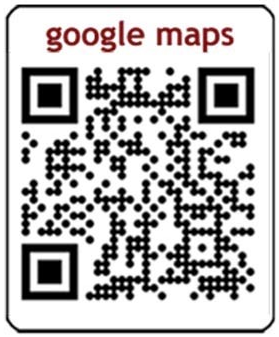
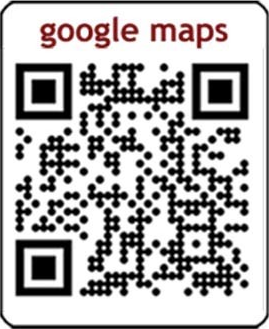
Eliminate excess white margins and exact crop QR code frames

diff --git a/src/components/RatingsTrustSection.tsx b/src/components/RatingsTrustSection.tsx
@@ -125,7 +125,7 @@ export const RatingsTrustSection: React.FC<SocialMediaQRSectionProps> = ({
   return (
     <section
       id="social-media"
-      className="relative bg-white text-[#0E1117] py-8 sm:py-12 min-h-[calc(100vh-60px)] flex flex-col justify-center overflow-hidden border-t border-black/[0.05] selection:bg-[#F15A24] selection:text-white"
+      className="relative bg-white text-[#0E1117] py-6 sm:py-10 md:py-12 overflow-hidden border-t border-black/[0.05] selection:bg-[#F15A24] selection:text-white"
     >
       {/* 1. White Ambient Studio Geometry & Grid */}
       <div className="absolute inset-0 pointer-events-none z-0 overflow-hidden select-none">
@@ -168,10 +168,10 @@ export const RatingsTrustSection: React.FC<SocialMediaQRSectionProps> = ({
         </svg>
 
         {/* Technical Corner Markers */}
-        <div className="absolute top-6 left-6 sm:left-12 font-mono text-[0.62rem] tracking-widest text-[#9AA5B5]">
+        <div className="absolute top-4 left-4 sm:left-12 font-mono text-[0.60rem] tracking-widest text-[#9AA5B5]">
           + <span className="text-[#64748B]">SEC.SOCIAL_HUB</span>
         </div>
-        <div className="absolute top-6 right-6 sm:right-12 font-mono text-[0.62rem] tracking-widest text-[#9AA5B5]">
+        <div className="absolute top-4 right-4 sm:right-12 font-mono text-[0.60rem] tracking-widest text-[#9AA5B5]">
           + <span className="text-[#64748B]">4_DIRECT_CHANNELS</span>
         </div>
       </div>
@@ -179,18 +179,18 @@ export const RatingsTrustSection: React.FC<SocialMediaQRSectionProps> = ({
       <div className="relative z-10 max-w-[1320px] mx-auto px-4 sm:px-6 w-full">
         
         {/* 2. Centered Section Header */}
-        <div className="max-w-3xl mx-auto mb-6 sm:mb-8 text-center flex flex-col items-center">
+        <div className="max-w-3xl mx-auto mb-4 sm:mb-6 text-center flex flex-col items-center">
           
           {/* Eyebrow Badge */}
-          <div className="inline-flex items-center gap-2 bg-[#FAFBFD] px-3.5 py-1 rounded-full border border-black/[0.08] shadow-2xs mb-2.5">
+          <div className="inline-flex items-center gap-2 bg-[#FAFBFD] px-3 py-0.5 rounded-full border border-black/[0.08] shadow-2xs mb-1.5">
             <span className="w-2 h-[2px] bg-[#F15A24] rounded-full" />
-            <span className="font-mono text-[0.66rem] font-black tracking-[0.18em] text-[#F15A24] uppercase">
+            <span className="font-mono text-[0.64rem] font-black tracking-[0.16em] text-[#F15A24] uppercase">
               CONNECT WITH US
             </span>
           </div>
 
           {/* Main Headline */}
-          <h2 className="font-heading font-extrabold text-[clamp(1.7rem,3vw,2.5rem)] text-[#0E1117] leading-[1.1] tracking-tight mb-2 select-none">
+          <h2 className="font-heading font-extrabold text-[clamp(1.5rem,2.8vw,2.3rem)] text-[#0E1117] leading-[1.1] tracking-tight mb-1.5 select-none">
             Connect with Us on{' '}
             <span className="text-[#F15A24] relative inline-block">
               Social Media.
@@ -199,13 +199,13 @@ export const RatingsTrustSection: React.FC<SocialMediaQRSectionProps> = ({
           </h2>
 
           {/* Subtitle */}
-          <p className="text-[0.88rem] sm:text-[0.96rem] text-[#4A5364] leading-relaxed max-w-2xl font-normal">
+          <p className="text-[0.82rem] sm:text-[0.92rem] text-[#4A5364] leading-relaxed max-w-2xl font-normal">
             Scan any QR code with your smartphone or tap the links below for instant updates, live tech support, workstation videos &amp; showroom directions.
           </p>
         </div>
 
         {/* 3. 4 Side-By-Side Interactive QR Cards (Touch-Swipeable on Mobile, Grid on Desktop) */}
-        <div className="flex sm:grid sm:grid-cols-2 lg:grid-cols-4 gap-4 sm:gap-5 lg:gap-6 overflow-x-auto sm:overflow-visible pb-3 sm:pb-0 snap-x snap-mandatory no-scrollbar -mx-4 px-4 sm:mx-0 sm:px-0 items-stretch">
+        <div className="flex sm:grid sm:grid-cols-2 lg:grid-cols-4 gap-3.5 sm:gap-5 lg:gap-6 overflow-x-auto sm:overflow-visible pb-2 sm:pb-0 snap-x snap-mandatory no-scrollbar -mx-4 px-4 sm:mx-0 sm:px-0 items-stretch">
           {socialChannels.map((channel) => {
             const Icon = channel.icon;
             const isHovered = hoveredCard === channel.id;
@@ -215,10 +215,10 @@ export const RatingsTrustSection: React.FC<SocialMediaQRSectionProps> = ({
                 key={channel.id}
                 onMouseEnter={() => setHoveredCard(channel.id)}
                 onMouseLeave={() => setHoveredCard(null)}
-                className={`min-w-[270px] sm:min-w-0 flex-shrink-0 sm:flex-shrink snap-center group bg-white rounded-2xl p-4 sm:p-5 border transition-all duration-300 flex flex-col justify-between relative overflow-hidden ${channel.brandBorder} ${
+                className={`w-[82vw] max-w-[285px] sm:w-auto sm:max-w-none flex-shrink-0 sm:flex-shrink snap-center group bg-white rounded-2xl p-3.5 sm:p-4.5 border transition-all duration-300 flex flex-col justify-between relative overflow-hidden ${channel.brandBorder} ${
                   isHovered
-                    ? 'shadow-[0_18px_45px_rgba(15,23,42,0.08)] -translate-y-1.5'
-                    : 'border-black/[0.08] shadow-[0_6px_24px_rgba(15,23,42,0.03)]'
+                    ? 'shadow-[0_18px_45px_rgba(15,23,42,0.08)] -translate-y-1'
+                    : 'border-black/[0.08] shadow-[0_4px_20px_rgba(15,23,42,0.03)]'
                 }`}
               >
                 {/* Top Subtle Brand Gradient Accent Bar */}
@@ -232,19 +232,19 @@ export const RatingsTrustSection: React.FC<SocialMediaQRSectionProps> = ({
 
                 {/* Card Top: Platform Icon, Badge & Title */}
                 <div>
-                  <div className="flex items-center justify-between gap-2 mb-3 pt-1">
+                  <div className="flex items-center justify-between gap-2 mb-2 pt-0.5">
                     {/* Platform Icon & Name */}
                     <div className="flex items-center gap-2">
                       <div
-                        className={`w-8 h-8 rounded-xl flex items-center justify-center transition-transform duration-200 group-hover:scale-110 shadow-2xs ${channel.brandBg}`}
+                        className={`w-7 h-7 sm:w-8 sm:h-8 rounded-xl flex items-center justify-center transition-transform duration-200 group-hover:scale-110 shadow-2xs ${channel.brandBg}`}
                       >
-                        <Icon size={18} className={channel.brandText} />
+                        <Icon size={16} className={channel.brandText} />
                       </div>
                       <div className="text-left">
-                        <h3 className="font-heading font-extrabold text-[1.05rem] text-[#0E1117] leading-tight">
+                        <h3 className="font-heading font-extrabold text-[0.98rem] sm:text-[1.05rem] text-[#0E1117] leading-tight">
                           {channel.name}
                         </h3>
-                        <span className="font-mono text-[0.62rem] text-slate-400 block -mt-0.5 truncate max-w-[120px]">
+                        <span className="font-mono text-[0.60rem] text-slate-400 block -mt-0.5 truncate max-w-[110px]">
                           {channel.handleOrSub}
                         </span>
                       </div>
@@ -252,7 +252,7 @@ export const RatingsTrustSection: React.FC<SocialMediaQRSectionProps> = ({
 
                     {/* Badge */}
                     <span
-                      className="font-mono text-[0.58rem] font-bold tracking-wider px-2 py-0.5 rounded-md uppercase"
+                      className="font-mono text-[0.55rem] font-bold tracking-wider px-2 py-0.5 rounded-md uppercase whitespace-nowrap"
                       style={{
                         backgroundColor: `${channel.accentColor}12`,
                         color: channel.accentColor,
@@ -263,11 +263,11 @@ export const RatingsTrustSection: React.FC<SocialMediaQRSectionProps> = ({
                   </div>
 
                   {/* QR Code Direct Display without excess white space/frames */}
-                  <div className="relative my-3 flex items-center justify-center overflow-hidden group/qr">
+                  <div className="relative my-1.5 flex items-center justify-center overflow-hidden group/qr">
                     {/* Scanner Line Effect on Hover */}
                     {isHovered && (
                       <div
-                        className="absolute left-1/2 -translate-x-1/2 w-full max-w-[200px] h-[2px] z-20 pointer-events-none shadow-[0_0_8px_rgba(241,90,36,0.8)] animate-pulse"
+                        className="absolute left-1/2 -translate-x-1/2 w-full max-w-[195px] h-[2px] z-20 pointer-events-none shadow-[0_0_8px_rgba(241,90,36,0.8)] animate-pulse"
                         style={{
                           backgroundColor: channel.accentColor,
                           animation: 'qrScan 2s linear infinite alternate',
@@ -275,36 +275,36 @@ export const RatingsTrustSection: React.FC<SocialMediaQRSectionProps> = ({
                       />
                     )}
 
-                    {/* Clean QR Code Image filling the space cleanly */}
-                    <div className="relative z-10 w-full max-w-[200px] flex items-center justify-center">
+                    {/* Clean Exact Cropped QR Code Image */}
+                    <div className="relative z-10 w-full max-w-[195px] flex items-center justify-center">
                       <img
                         src={channel.qrImage}
                         alt={`${channel.name} QR Code - Global Computers Eluru`}
-                        className="w-full h-auto object-contain select-none transition-transform duration-300 group-hover/qr:scale-103 rounded-lg"
+                        className="w-full h-auto object-contain select-none transition-transform duration-300 group-hover/qr:scale-102 rounded-lg"
                         loading="lazy"
                       />
                     </div>
 
                     {/* Micro Scan Helper Pill */}
-                    <div className="absolute bottom-2 z-20 bg-black/80 backdrop-blur-md px-2.5 py-0.5 rounded-full text-white font-mono text-[0.58rem] flex items-center gap-1 opacity-0 group-hover:opacity-100 transition-opacity duration-200 shadow-md">
+                    <div className="absolute bottom-1.5 z-20 bg-black/80 backdrop-blur-md px-2 py-0.5 rounded-full text-white font-mono text-[0.55rem] flex items-center gap-1 opacity-0 group-hover:opacity-100 transition-opacity duration-200 shadow-md">
                       <QrCode size={10} className="text-[#F15A24]" />
                       <span>Scan Code</span>
                     </div>
                   </div>
 
                   {/* Description */}
-                  <p className="text-[0.78rem] text-[#64748B] leading-relaxed text-left mb-3.5 font-normal line-clamp-2">
+                  <p className="text-[0.74rem] sm:text-[0.78rem] text-[#64748B] leading-snug text-left mb-2.5 font-normal line-clamp-2">
                     {channel.description}
                   </p>
                 </div>
 
                 {/* Bottom Action CTA Button */}
-                <div className="pt-2.5 border-t border-black/[0.05]">
+                <div className="pt-2 border-t border-black/[0.05]">
                   <a
                     href={channel.directUrl}
                     target="_blank"
                     rel="noopener noreferrer"
-                    className="w-full py-2.5 px-3 rounded-xl font-heading font-bold text-[0.82rem] flex items-center justify-center gap-2 transition-all duration-200 shadow-2xs hover:shadow-sm cursor-pointer group/btn"
+                    className="w-full py-2 px-3 rounded-xl font-heading font-bold text-[0.80rem] flex items-center justify-center gap-1.5 transition-all duration-200 shadow-2xs hover:shadow-sm cursor-pointer group/btn"
                     style={{
                       backgroundColor: isHovered ? channel.accentColor : '#F8FAFC',
                       color: isHovered ? '#FFFFFF' : '#1E293B',
@@ -313,7 +313,7 @@ export const RatingsTrustSection: React.FC<SocialMediaQRSectionProps> = ({
                   >
                     <span>{channel.buttonText}</span>
                     <ArrowUpRight
-                      size={14}
+                      size={13}
                       className="transition-transform duration-200 group-hover/btn:translate-x-0.5 group-hover/btn:-translate-y-0.5"
                     />
                   </a>

diff --git a/src/components/LeadershipSection.tsx b/src/components/LeadershipSection.tsx
@@ -67,7 +67,7 @@ export const LeadershipSection: React.FC<LeadershipSectionProps> = ({
   return (
     <section
       id="leadership"
-      className="relative bg-[#FAFBFD] text-[#0E1117] py-8 sm:py-12 min-h-[calc(100vh-60px)] flex flex-col justify-center overflow-hidden border-t border-black/[0.05] selection:bg-[#F15A24] selection:text-white"
+      className="relative bg-[#FAFBFD] text-[#0E1117] py-6 sm:py-10 md:py-12 overflow-hidden border-t border-black/[0.05] selection:bg-[#F15A24] selection:text-white"
     >
       {/* 1. Subtle Ambient Studio Geometry Background */}
       <div className="absolute inset-0 pointer-events-none z-0 overflow-hidden select-none">
